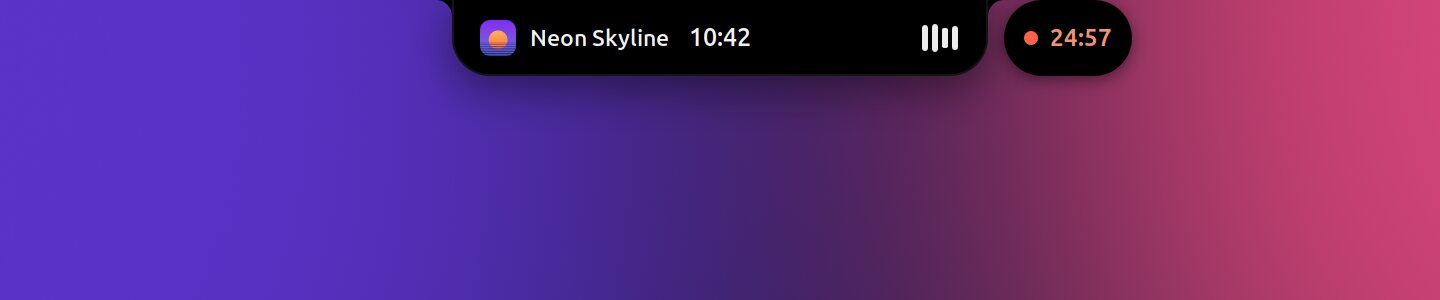
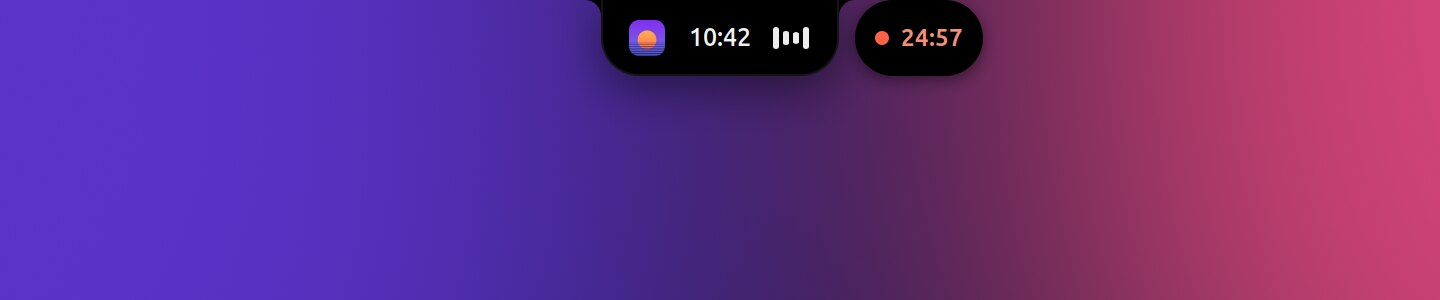
Pill shows album art only while music plays; site hub in two columns, new pill shots

Changed region(s): [[0.5312, 0.0, 0.8125, 0.27], [0.2812, 0.0, 0.4688, 0.33]]

diff --git a/docs/index.html b/docs/index.html
@@ -60,7 +60,7 @@
         <div class="screen" id="hero-screen" data-logical="1280"
              role="img" aria-label="A Linux desktop with Notchex at the top: it shows the current song, then a meeting with a Join button, then AirPods connecting, then opens into the hub">
             <div class="island" aria-hidden="true">
-                <img data-state="idle" src="img/island/idle.jpg" width="536" height="76" alt="">
+                <img data-state="idle" src="img/island/idle.jpg" width="236" height="76" alt="">
                 <img data-state="meeting" src="img/island/meeting.jpg" width="840" height="96" alt="">
                 <img data-state="bt" src="img/island/bt.jpg" width="680" height="76" alt="">
                 <img data-state="hub" src="img/island/hub.jpg" width="1280" height="797" alt="">
@@ -95,7 +95,7 @@
             <div class="screen screen-band" id="alerts-screen" data-logical="520"
                  role="img" aria-label="The notch showing the selected live activity">
                 <div class="island" aria-hidden="true">
-                    <img data-state="idle" src="img/island/idle.jpg" width="536" height="76" alt="">
+                    <img data-state="idle" src="img/island/idle.jpg" width="236" height="76" alt="">
                     <img data-state="meeting" src="img/island/meeting.jpg" width="840" height="96" alt="">
                     <img data-state="bt" src="img/island/bt.jpg" width="680" height="76" alt="">
                     <img data-state="play" src="img/island/play.jpg" width="760" height="76" alt="">

diff --git a/docs/home.js b/docs/home.js
@@ -21,7 +21,7 @@
 
     /* logical size of each state (screenshots are 2x) */
     const SIZE = {
-        idle: [268, 38], meeting: [420, 48], bt: [340, 38], play: [380, 38],
+        idle: [118, 38], meeting: [420, 48], bt: [340, 38], play: [380, 38],
         focus: [300, 38], low: [340, 38], charge: [340, 38], hub: [640, 398.5],
     };
     const PILL_TOP = 6;
